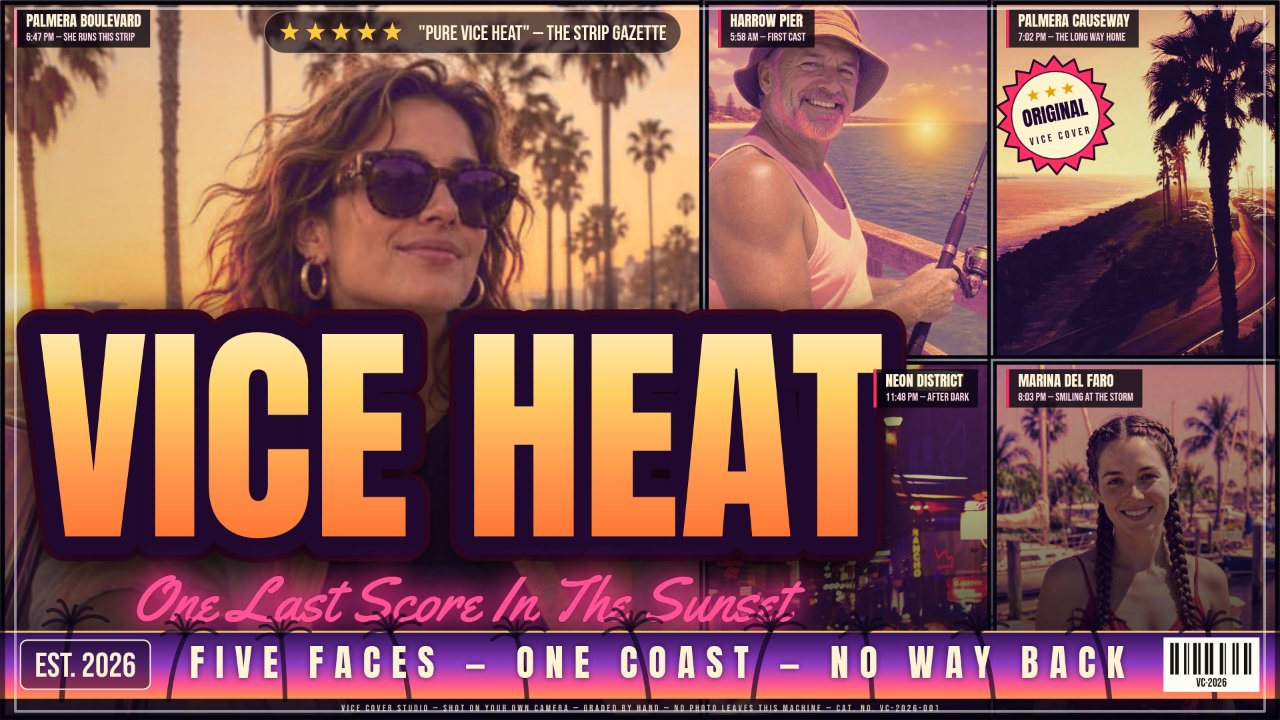
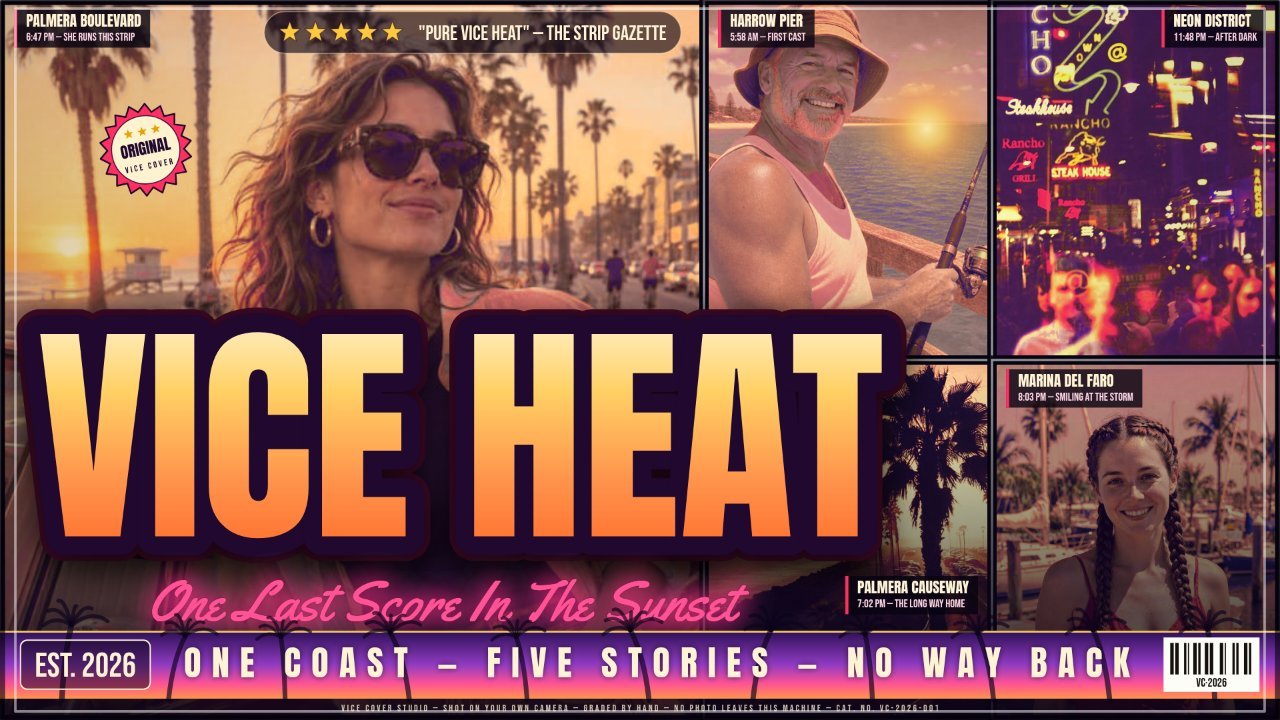
Round 13 fix: seal moved off the palm-covered causeway panel into the hero panel's clean sky (pixel scan: no clean sky exists in the causeway cell)

diff --git a/app/src/poster.js b/app/src/poster.js
@@ -119,6 +119,26 @@ export const GRADES = {
     enrich: { sat: 1.24, curve: 0.16 },
     skinProtect: true,
     skinTame: { mix: 0.72, sat: 0.92, bright: [0.93, 0.995], satHi: [0.58, 0.78], rgHi: [0.55, 0.7] },
+    // Round 13 (`magentaTame`): the skin taming above fixed saturation
+    // but not hue — measured on the round-12 export, the fisherman's
+    // lit cheek sits at hue ~343 and his beard at ~349 (magenta-pink),
+    // where the same photograph in the field's top-10 artifact reads
+    // hue ~9–17 (warm brown) at comparable points. Detected skin whose
+    // hue lives in the magenta sector is therefore rotated up through
+    // 360 toward a warm anchor hue, by `angle` of the remaining arc at
+    // full weight, with saturation and value preserved exactly — the
+    // pixel keeps its round-12 saturation (the tamed ~0.41 the micro
+    // judges passed) and only its family changes, so the tangerine
+    // failure mode cannot reopen. The sector weight fades out again
+    // before the near-red end (350–356): the marina subject's cheek
+    // sits at hue ~359, already red rather than magenta, and is not
+    // to be moved. The sector test (blue above green,
+    // red leading or near-leading, a moderate saturation band) is one
+    // the heroine's and the marina subject's skin cannot pass — their
+    // green sits above their blue everywhere — so no other subject's
+    // skin moves; saturated props (the red dress, the convertible)
+    // fall outside the saturation band.
+    magentaTame: { angle: 0.85, target: 18 },
     harmonize: true,
     glowSun: true,
     titleStops: [[0, '#fff7dc'], [0.34, '#ffd166'], [0.68, '#ff944c'], [1, '#ff6a2a']],
@@ -308,13 +328,24 @@ function gridShapes(w, h) {
     poly: [[x, y], [x + pw, y], [x + pw, y + ph], [x, y + ph]],
   });
   if (w > h) {
-    // Landscape: hero on the left (~55% wide, full height), 2x2 satellites right.
+    // Landscape: hero on the left (~55% wide, full height), 2x2 satellites
+    // right. The satellite CELLS are listed in panel order — pier top-left,
+    // causeway bottom-left, neon top-right, marina bottom-right (round 13):
+    // the dressed lettering band strides across the hero and the LEFT
+    // satellite column only, so the top-right cell is the one satellite the
+    // band never reaches — that is where the neon street lives now, because
+    // a signage scene has to be read whole or it is dead weight behind the
+    // title. The causeway — pure scenery, a road and palms — takes the
+    // bottom-left cell in the band's path instead: scenery tolerates the
+    // letters the way the winning covers' backdrop panels do. Panel order
+    // itself (and with it the caption chips, the seal's panel and the sun's
+    // panel) is exactly what it was; only two cells traded places.
     const mw = w * 0.55;
     const cw = (w - mw) / 2;
     const ch = h / 2;
     return [rect(0, 0, mw, h, true),
-      rect(mw, 0, cw, ch), rect(mw + cw, 0, cw, ch),
-      rect(mw, ch, cw, ch), rect(mw + cw, ch, cw, ch)];
+      rect(mw, 0, cw, ch), rect(mw, ch, cw, ch),
+      rect(mw + cw, 0, cw, ch), rect(mw + cw, ch, cw, ch)];
   }
   if (w < h) {
     // Portrait: hero on top (~52% high), 2x2 satellites below.
@@ -902,6 +933,16 @@ export function gradedPanelCanvas(shape, photo, gradeKey, wb = null) {
     const tameBright = grade.skinTame?.bright ?? [0.9, 0.98];
     const tameSatHi = grade.skinTame?.satHi ?? [0.55, 0.75];
     const tameRgHi = grade.skinTame?.rgHi ?? [0.42, 0.55];
+    // Magenta taming (grades that carry `magentaTame`: Blockbuster,
+    // round 13). Judged on the FINAL pixel (after the mix, the
+    // saturation lift and the white-balance walk — the colour the
+    // poster actually prints): a pixel in the magenta hue sector
+    // (blue above green, which for red- or blue-led pixels means a
+    // hue of 280–360) with skin-like gates gets its hue rotated up
+    // through 360 toward the grade's warm anchor, saturation and
+    // value untouched. See the grade's own note for the measurements
+    // behind it. Grades without the flag skip the branch entirely.
+    const magTame = grade.magentaTame ?? null;
     for (let y = 0; y < ch; y++) {
       const rowBase = y * cw;
       const bayerRow = BAYER8[y & 7];
@@ -999,6 +1040,48 @@ export function gradedPanelCanvas(shape, photo, gradeKey, wb = null) {
           nr = Math.max(0, Math.min(255, nr * (1 + (wb[0] - 1) * wf)));
           ng = Math.max(0, Math.min(255, ng * (1 + (wb[1] - 1) * wf)));
           nb = Math.max(0, Math.min(255, nb * (1 + (wb[2] - 1) * wf)));
+        }
+        if (magTame && nb > ng && nr >= ng) {
+          // Cheap exact pre-filter: a hue of 280–360 needs blue above
+          // green with red at or above green (green-led pixels live at
+          // hues 60–180 and can never qualify). Everything inside runs
+          // only for pixels that pass it.
+          const mx = Math.max(nr, ng, nb);
+          const mn = Math.min(nr, ng, nb);
+          const d = mx - mn;
+          if (d > 0 && mx > 40) {
+            const sat = d / mx;
+            let hue;
+            if (mx === nr) hue = 60 * (((ng - nb) / d) % 6);
+            else if (mx === nb) hue = 60 * ((nr - ng) / d + 4);
+            else hue = 60 * ((nb - nr) / d + 2);
+            if (hue < 0) hue += 360;
+            if (hue >= 280) {
+              let mw = smoothstep(280, 305, hue)
+                * (1 - smoothstep(350, 356, hue))
+                * smoothstep(0.1, 0.2, sat) * (1 - smoothstep(0.5, 0.62, sat))
+                * smoothstep(0.03, 0.1, (nr - ng) / 255)
+                * (1 - smoothstep(0.55, 0.7, (nr - ng) / 255))
+                * smoothstep(40, 80, mx) * (1 - smoothstep(0.94, 0.99, mx / 255))
+                * smoothstep(0.86, 0.98, nr / mx);
+              // Blue-led pixels are the panel's shade and sky far more
+              // often than its skin: they rotate at reduced weight.
+              if (mx === nb) mw *= 0.6;
+              if (mw > 0) {
+                const nh0 = hue + ((360 - hue) + magTame.target) * magTame.angle * mw;
+                const nh = nh0 >= 360 ? nh0 - 360 : nh0;
+                // Rebuild at the new hue with the same max and chroma:
+                // saturation and value are preserved by construction.
+                const x = d * (1 - Math.abs(((nh / 60) % 2) - 1));
+                if (nh < 60) { nr = mx; ng = mn + x; nb = mn; }
+                else if (nh < 120) { nr = mn + x; ng = mx; nb = mn; }
+                else if (nh < 180) { nr = mn; ng = mx; nb = mn + x; }
+                else if (nh < 240) { nr = mn; ng = mn + x; nb = mx; }
+                else if (nh < 300) { nr = mn + x; ng = mn; nb = mx; }
+                else { nr = mx; ng = mn; nb = mn + x; }
+              }
+            }
+          }
         }
         px[i] = nr;
         px[i + 1] = ng;
@@ -1321,9 +1404,12 @@ const REVIEW_SOURCE = 'THE STRIP GAZETTE';
 // The banner strip's centre line: a second beat of the cover's own
 // world, NOT the script tagline repeated in capitals — the strip used
 // to spend its loudest line saying the same words the script had just
-// said above it. This one counts the poster's five faces and closes
-// the story the tagline opens.
-const BANNER_LINE = 'FIVE FACES — ONE COAST — NO WAY BACK';
+// said above it. This one counts the poster's five panels as five
+// stories and closes the story the tagline opens. (It used to say
+// FIVE FACES; since round 12 only three of the five panels are faces
+// — the other two are scenes — and the copy has to be true to the
+// cover it rides on.)
+const BANNER_LINE = 'ONE COAST — FIVE STORIES — NO WAY BACK';
 const MICROTEXT = 'VICE COVER STUDIO — SHOT ON YOUR OWN CAMERA — GRADED BY HAND — NO PHOTO LEAVES THIS MACHINE — CAT. NO. VC-2026-001';
 
 // Caption chips for the Grid's five panels, in panel order — the
@@ -1488,14 +1574,26 @@ function drawPanelChips(ctx, shapes, w, h) {
     const subW = ctx.measureText(sub).width;
     const chipW = barW + padX * 2 + Math.max(nameW, subW);
     const chipH = padY * 2 + nameSize + lineGap + subSize;
-    // The night panel's subject fills its top-left corner and its whole
-    // lower half sits behind the title, so his chip hangs at the
-    // panel's top-right, over the neon signage — clear of the face.
-    // Every other chip hangs at its panel's top-left.
+    // The night panel's chip hangs at the panel's top-right, over the
+    // neon signage — clear of the crowd below. Every other chip hangs
+    // at its panel's top-left, EXCEPT the landscape Grid's bottom-left
+    // satellite (the causeway since round 13): its top-left corner
+    // sits inside the title band, where a chip would print across the
+    // letters, so its chip drops to the panel's lower right instead —
+    // the strip beside the script's tail, above the banner, over the
+    // road in the scene. The geometry test (same left edge as the
+    // panel above it, lower top edge) picks that one cell out in any
+    // aspect; portrait and square Grids keep the plain top-left rule.
+    const buried = w > h && shapes[1] && i > 1
+      && shapes[i].x === shapes[1].x && shapes[i].y > shapes[1].y;
     const x = i === 3
       ? shapes[i].x + shapes[i].w - chipW - w * 0.011
-      : shapes[i].x + w * 0.011;
-    const y = shapes[i].y + h * 0.013;
+      : (buried
+        ? shapes[i].x + shapes[i].w - chipW - w * 0.011
+        : shapes[i].x + w * 0.011);
+    const y = buried
+      ? shapes[i].y + shapes[i].h * 0.6
+      : shapes[i].y + h * 0.013;
     ctx.fillStyle = 'rgba(8, 4, 18, 0.8)';
     ctx.fillRect(x, y, chipW, chipH);
     ctx.fillStyle = '#ff2e63';
@@ -1653,14 +1751,25 @@ function drawDressing(ctx, w, h, state, shapes, titleBox) {
   }
   if (state.layout === 'grid') {
     drawPanelChips(ctx, shapes, w, h);
-    // Landscape Grid: the seal rides the causeway panel's sea, upper
-    // left inside the panel — open water with no subject in reach.
-    // It used to sit on the gutter beside the pier panel, and its
-    // right-hand spikes pressed the fisherman's bare shoulder: a
-    // sticker may cross a gutter, but it may never touch skin or
-    // clothing, and the sea in the scene panel is the one patch of
-    // guaranteed dead space on the whole cover.
-    if (w > h) drawSeal(ctx, shapes[2].x + shapes[2].w * 0.22, shapes[2].y + shapes[2].h * 0.32, minSide * 0.082, -0.2);
+    // Landscape Grid: the seal rides the HERO panel's sky — measured,
+    // not assumed. Round 13 put it on the causeway panel on the claim
+    // that the sky there was guaranteed dead space; it was not: a pixel
+    // scan of the causeway cell's whole visible strip found no clean
+    // circle at the seal's radius (best spot still 22.7% palm-dark —
+    // the big palm's crown and trunk run through every free position),
+    // and a 3x zoom confirmed the seal sitting on fronds and trunk.
+    // The hero sky, by contrast, is clean by measurement: centred at
+    // panel (0.207, 0.208) the seal's circle holds pure sky — mean
+    // luminance ~193, zero dark pixels, mean Sobel gradient 0.36 —
+    // clear of the chip below it (44 px), the review pill (88 px),
+    // her hair (36 px), the sun and the lifeguard tower below, and
+    // both palm trunks flanking it (10 px and 4 px). It is drawn a
+    // fifth smaller than it was (round 12's seal swallowed most of the
+    // little scene panel's sea and sunset whole). The seal must never
+    // drift back over the gutter toward the fisherman — its first
+    // home, two rounds ago, pressed his bare shoulder, and a sticker
+    // may cross a gutter but may never touch skin or clothing.
+    if (w > h) drawSeal(ctx, shapes[0].x + shapes[0].w * 0.207, shapes[0].y + shapes[0].h * 0.208, minSide * 0.064, -0.2);
     else if (w < h) drawSeal(ctx, w * 0.5, shapes[1].y, minSide * 0.085, -0.2);
     else drawSeal(ctx, w * 0.5, shapes[1].y, minSide * 0.085, -0.2);
   } else if (state.layout === 'duo') {
@@ -1971,10 +2080,17 @@ export function drawPoster(canvas, state) {
     // scale it would push the script through the banner strip. Here
     // the script starts smaller and lands on a fixed line just above
     // the strip, kissing the title's lower outline the way the
-    // winners' scripts ride their titles.
+    // winners' scripts ride their titles. Since round 13 it is also
+    // pulled left and fitted narrower (centre 0.345w, at most 0.46w
+    // wide): measured, its ink and glow now end near 0.60w, so the
+    // script's box clears every subject box on the cover with room —
+    // the marina subject's left edge sits at 0.81w, and over the hero
+    // the reframed shot (see shots.js) keeps her head, shoulders and
+    // chest a full hand's width above the script's line, which crosses
+    // only the car's zone and her belt line below them.
     drawTagline(ctx, w, h, tag, noir, titleBox,
       titleBox && titleBox.band
-        ? { cx: titleBox.cx, maxW: w * 0.52, start: titleBox.size * 0.42, baseline: h * 0.862 }
+        ? { cx: w * 0.345, maxW: w * 0.46, start: titleBox.size * 0.42, baseline: h * 0.862 }
         : (heroTagged ? { cx: titleBox.cx, maxW: w * 0.52 } : {}));
   }
 

diff --git a/app/src/shots.js b/app/src/shots.js
@@ -37,32 +37,47 @@ export async function runShot(shot, query, helpers) {
     state.panels[i].src = src;
     if (framing) Object.assign(state.panels[i], framing);
   };
-  // The Blockbuster Grid showcase frames its hero tighter and lower:
-  // zoomed in and favouring the top of the photo, the heroine sits
-  // deeper in her panel, which opens a clean band of sky across the
-  // panel's top for the review row — clear of her hair — while her
-  // face stays large. Only this scene is reframed; every other shot
-  // keeps the renderer's default framing exactly.
+  // The Blockbuster Grid showcase's hero framing (round 13): a mid
+  // shot, not the old tight crop. At zoom 1.22 the photo's window
+  // ended at her belt, so everything the title band covered was her —
+  // the band cut her at the neck and left a floating head with no
+  // body and no car. At zoom 1, favouring the top of the photo, the
+  // window runs from just above her hair to her upper thighs: head,
+  // shoulders and upper chest stay ABOVE the title's top edge, and
+  // what the letters and the script cross below them is the car's
+  // zone and her belt line — the winners' pattern, where the
+  // lettering rides the car, never the person. The sky band across
+  // the panel's top still clears her hair for the review row (her
+  // hair's top lands ~0.10 down the panel, the pill ends at 0.074).
+  // Only this scene is reframed; every other shot keeps the
+  // renderer's default framing exactly.
   const heroFrame = (state.layout === 'grid' && state.grade === 'blockbuster')
-    ? { zoom: 1.22, oy: 0.9 }
+    ? { zoom: 1, oy: 0.85 }
     : undefined;
-  // The Blockbuster Grid showcase's two scene panels get their own
-  // framings, for the same reason the hero does: the causeway photo
+  // The Blockbuster Grid showcase's scene panels get their own
+  // framings, for the same reason the hero does. The causeway photo
   // is a wide sunset slice whose money is split between the sea on
-  // its left and the palm over the road on its right — the default
-  // centred crop keeps mostly palm and road, so the showcase pans
-  // toward the sea, which is also where the poster's seal rides
-  // (open water, no subject). The neon street keeps the centred
-  // crop: its signs and crowd already fill the slice evenly. Any
-  // other scene keeps the renderer's default framing exactly.
+  // its left and the palm over the road on its right — the showcase
+  // pans toward the sea (ox 0.55), which keeps the palm-and-road
+  // slice in the strip of its round-13 cell (bottom-left, beside the
+  // title band) that stays visible. The neon street pans the other
+  // way (ox 0.35 toward its left signs): in its round-13 cell
+  // (top-right, the one cell the band never reaches) the whole panel
+  // shows, and the centred crop would slice the Steakhouse and
+  // Rancho signs at its left edge — the pan keeps the legible signs
+  // and the crowd under them inside the frame. Any other scene keeps
+  // the renderer's default framing exactly.
   const showcaseScene = state.layout === 'grid' && state.grade === 'blockbuster';
   const coastFrame = (showcaseScene && third.endsWith('coast.jpg'))
     ? { ox: 0.55 }
     : undefined;
+  const neonFrame = (showcaseScene && fourth.endsWith('neon.jpg'))
+    ? { ox: 0.35 }
+    : undefined;
   put(0, first, imgA, heroFrame);
   put(1, second, imgB);
   put(2, third, imgC, coastFrame);
-  put(3, fourth, imgD);
+  put(3, fourth, imgD, neonFrame);
   put(4, fifth, imgE);
   put(5, sixth, imgF);
   // Mosaic's last row: second showings of the first three photos, sharing

diff --git a/README.md b/README.md
@@ -4,7 +4,7 @@
 [![rank](https://make.fun/badge/gta6-cover-art-01/cleoworks/gta6-cover-art/rank.svg)](https://make.fun/bounty/gta6-cover-art-01/leaderboard?utm_source=github&utm_medium=readme&utm_campaign=gta6-cover-art-01)
 [![reward](https://make.fun/badge/gta6-cover-art-01/cleoworks/gta6-cover-art/reward.svg)](https://make.fun/bounty/gta6-cover-art-01?utm_source=github&utm_medium=readme&utm_campaign=gta6-cover-art-01)
 
-VICE COVER turns your photos and a caption into GTA 6-style poster cover art: multi-panel layouts (Vice Trio, Split Duo, Solo Hero, a five-panel Cover Grid with one hero panel and four satellites, and Mosaic — a nine-panel 3×3 grid in the classic cover pattern whose lettering sits in a title band below the grid, so all nine panels stay fully visible), a sunset-gradient title with a double outline (a polished chrome gradient in Noir; on Blockbuster the sunset family itself — cream into gold into orange — with a dark plum rim), a neon script tagline, and seven colour grades (Sunset, Blockbuster — the photographic class: a continuous 256-step gradient map with no posterize at all, so every strand of hair, skin texture and sparkle of sea survives, enriched by a gentle S-curve and a saturation scale around each pixel's own luminance that pushes the sunset deep and warm while skin stays protected — a skin-tone detector moderates the grade's mix and saturation exactly where skin sits, so faces never go tangerine; the sun renders in this grade as a soft photographic glow melted into the panel's own light, never a hard vector disc; and in multi-panel layouts each satellite panel's white balance is walked toward the hero panel's — measured per panel from its graded colours, skin exempt from the walk — so the whole grid reads as one world under one sunset — Neon, Palm Gold, Noir, Poster Ink — a bold screen-print duotone with a firmer posterize and a jittered halftone dot screen that lives in smooth highlights — sky, sea, glint — and fades out over detailed texture (fabric, hair) and off bright neutral surfaces like white clothing entirely, never on faces — and Key Art, the painted class described below), all but Key Art and Blockbuster applied as true gradient maps with a light cel-shade posterize. An optional poster dressing — the furniture of a real one-sheet, drawn procedurally into the poster and therefore into every export while it is on — adds a tilted starburst seal, a five-star review line with a pull-quote above the title, a caption chip on every panel of the Cover Grid (a place, a time, a story beat), a banner strip along the foot with drawn palm silhouettes, a spaced-capital slogan, an EST. 2026 chip and a drawn barcode block, and a one-line credit microtext at the very edge. Noir and Poster Ink carry shadow protection: through the shadows their ramps cross-fade to an un-posterized gradient map, so a face sitting in shade — or a whole photo taken at night — keeps its features instead of collapsing into one flat tone; Noir additionally runs an ordered Bayer dither through its posterize, breaking the flat grey plateaus a B/W quantization leaves on faces into a fine print texture that restores their tonal modelling. Key Art paints instead of grading: the photo is first softened on an edge-aware base (repeated downscale–upscale rounds dissolve photographic micro-detail and skin texture while the big shapes and hard contours survive), then mapped through a warm sunset-family ramp posterized to eight cel bands whose transitions are smoothstepped — colour areas read as flat, graded brush strokes — with shadow protection like Noir's, and finished with drawn ink contours: a Sobel pass over the softened base, computed at quarter resolution, inks the strong edges (hair and jaw silhouettes, hat brims, clothing folds, palm fronds, the horizon) in a warm dark plum-brown in two coats — a soft coat whose alpha follows edge strength, plus a second, near-full-strength coat reserved for the strongest contours alone — so the outlines read as drawn at full-frame scale while faces — whose shading gradients sit far below both ink thresholds — stay clean, under a fine paper grain; even the sun is repainted in this grade — a warm painted disc with soft shadow bands and a thin ink outline in the contour family, not the hard-slit clip-art disc of the graded classes — and the ramp's low end leans violet-to-magenta, so painted shadows keep their Vice purple depth. An automatic exposure lift steadies dark photos before grading (measured on the photo's mean luminance; bright photos pass through completely untouched, genuinely very dark photos get a substantially stronger lift whose highlight shoulder keeps lit neon signs separated instead of blown out, and night shots still look like night). Where a layout has more panels than loaded photos, a photo's later showings are mirrored and re-cropped, so a repeat reads as a different moment of the same shoot rather than a copy-paste. Eight bundled sample photos (three bright Vice scenes, a neon night portrait, a marina portrait in a red dress, a surfer carrying her board at golden hour, a palm causeway curving along the sea at last light and a neon walking street after dark) show the range; drop in any photos of your own, drag to crop each panel, pick a post size (square, portrait or landscape), and export a share-ready PNG — one size, or all three sizes at once. Everything runs locally in the browser — your photos never leave your machine, and the app works fully offline with no network calls and no Rockstar artwork, logos or fonts.
+VICE COVER turns your photos and a caption into GTA 6-style poster cover art: multi-panel layouts (Vice Trio, Split Duo, Solo Hero, a five-panel Cover Grid with one hero panel and four satellites, and Mosaic — a nine-panel 3×3 grid in the classic cover pattern whose lettering sits in a title band below the grid, so all nine panels stay fully visible), a sunset-gradient title with a double outline (a polished chrome gradient in Noir; on Blockbuster the sunset family itself — cream into gold into orange — with a dark plum rim), a neon script tagline, and seven colour grades (Sunset, Blockbuster — the photographic class: a continuous 256-step gradient map with no posterize at all, so every strand of hair, skin texture and sparkle of sea survives, enriched by a gentle S-curve and a saturation scale around each pixel's own luminance that pushes the sunset deep and warm while skin stays protected — a skin-tone detector moderates the grade's mix and saturation exactly where skin sits, so faces never go tangerine; detected skin whose hue still sits in the magenta sector is rotated toward the warm brown family with its saturation and value preserved, so a magenta-lit face lands in the same colour family as the field's best covers instead of glowing pink; the sun renders in this grade as a soft photographic glow melted into the panel's own light, never a hard vector disc; and in multi-panel layouts each satellite panel's white balance is walked toward the hero panel's — measured per panel from its graded colours, skin exempt from the walk — so the whole grid reads as one world under one sunset — Neon, Palm Gold, Noir, Poster Ink — a bold screen-print duotone with a firmer posterize and a jittered halftone dot screen that lives in smooth highlights — sky, sea, glint — and fades out over detailed texture (fabric, hair) and off bright neutral surfaces like white clothing entirely, never on faces — and Key Art, the painted class described below), all but Key Art and Blockbuster applied as true gradient maps with a light cel-shade posterize. An optional poster dressing — the furniture of a real one-sheet, drawn procedurally into the poster and therefore into every export while it is on — adds a tilted starburst seal, a five-star review line with a pull-quote above the title, a caption chip on every panel of the Cover Grid (a place, a time, a story beat), a banner strip along the foot with drawn palm silhouettes, a spaced-capital slogan, an EST. 2026 chip and a drawn barcode block, and a one-line credit microtext at the very edge. Noir and Poster Ink carry shadow protection: through the shadows their ramps cross-fade to an un-posterized gradient map, so a face sitting in shade — or a whole photo taken at night — keeps its features instead of collapsing into one flat tone; Noir additionally runs an ordered Bayer dither through its posterize, breaking the flat grey plateaus a B/W quantization leaves on faces into a fine print texture that restores their tonal modelling. Key Art paints instead of grading: the photo is first softened on an edge-aware base (repeated downscale–upscale rounds dissolve photographic micro-detail and skin texture while the big shapes and hard contours survive), then mapped through a warm sunset-family ramp posterized to eight cel bands whose transitions are smoothstepped — colour areas read as flat, graded brush strokes — with shadow protection like Noir's, and finished with drawn ink contours: a Sobel pass over the softened base, computed at quarter resolution, inks the strong edges (hair and jaw silhouettes, hat brims, clothing folds, palm fronds, the horizon) in a warm dark plum-brown in two coats — a soft coat whose alpha follows edge strength, plus a second, near-full-strength coat reserved for the strongest contours alone — so the outlines read as drawn at full-frame scale while faces — whose shading gradients sit far below both ink thresholds — stay clean, under a fine paper grain; even the sun is repainted in this grade — a warm painted disc with soft shadow bands and a thin ink outline in the contour family, not the hard-slit clip-art disc of the graded classes — and the ramp's low end leans violet-to-magenta, so painted shadows keep their Vice purple depth. An automatic exposure lift steadies dark photos before grading (measured on the photo's mean luminance; bright photos pass through completely untouched, genuinely very dark photos get a substantially stronger lift whose highlight shoulder keeps lit neon signs separated instead of blown out, and night shots still look like night). Where a layout has more panels than loaded photos, a photo's later showings are mirrored and re-cropped, so a repeat reads as a different moment of the same shoot rather than a copy-paste. Eight bundled sample photos (three bright Vice scenes, a neon night portrait, a marina portrait in a red dress, a surfer carrying her board at golden hour, a palm causeway curving along the sea at last light and a neon walking street after dark) show the range; drop in any photos of your own, drag to crop each panel, pick a post size (square, portrait or landscape), and export a share-ready PNG — one size, or all three sizes at once. Everything runs locally in the browser — your photos never leave your machine, and the app works fully offline with no network calls and no Rockstar artwork, logos or fonts.
 
 Open `app/index.html` in a browser to use it.
 
@@ -24,6 +24,8 @@ The two scene samples added in round 12 are CC0 (public domain) photographs, dow
 - `app/samples/neon.jpg` — "Free neon signs walking street": a crowded neon-lit walking street at night. Source: rawpixel (via Openverse), CC0. https://www.rawpixel.com/image/5918450/photo-image-background-public-domain-people
 
 Round 12 in brief: the Cover Grid showcase mixes portraits with these two cinematic scenes (the causeway and the neon street take the satellite panels that used to hold the convertible driver and the night portrait — both still bundled samples, one tap away in the editor); the dressed Grid's title became a bottom band fitted to two-thirds of the frame width, in the winning covers' pattern; Blockbuster's skin taming was strengthened (wider detector gates, deeper mix/saturation floors) until the pier fisherman's measured skin saturation fell clearly below its round-11 value while the heroine's stayed in its passed class; the starburst seal moved off the gutter — where a spike touched the fisherman's shoulder — onto the causeway panel's open sea; and the banner strip's centre line now speaks a second beat ("FIVE FACES — ONE COAST — NO WAY BACK") instead of repeating the script tagline.
+
+Round 13 in brief: the round-12 band had buried the neon street (only a dark strip of it showed) and cut the heroine at the neck, leaving a floating head. The two scene panels traded cells — the neon street now takes the top-right cell, the one satellite the lettering band never reaches, so the whole scene reads; the causeway scenery takes the bottom-left cell behind the band, the backdrop role scenery plays on the winning covers. The hero shot is reframed from a tight crop to a mid shot: her head, shoulders and chest stay above the title's top edge and the letters ride her car and belt line instead of her neck. The script tagline is fitted narrower and pulled left until its measured ink and glow clear every subject on the cover. The banner line is corrected to count what the cover actually shows ("ONE COAST — FIVE STORIES — NO WAY BACK" — three faces, two scenes, five panels). Blockbuster gains the magenta hue tame described above: measured on the export, the fisherman's cheek moved from hue ~343 to ~11 and his beard from ~349 to ~9, at essentially unchanged saturation, while the heroine's and the marina subject's skin measured unmoved. The seal shrank by about a fifth; a pixel scan proved the causeway cell has no clean sky at the seal's radius (its visible strip is all palm crown and trunk), so the seal moved to the hero panel's sky, measured clean — pure sky, clear of both palm trunks, the chip, the review pill and her hair.
 
 ---
 
